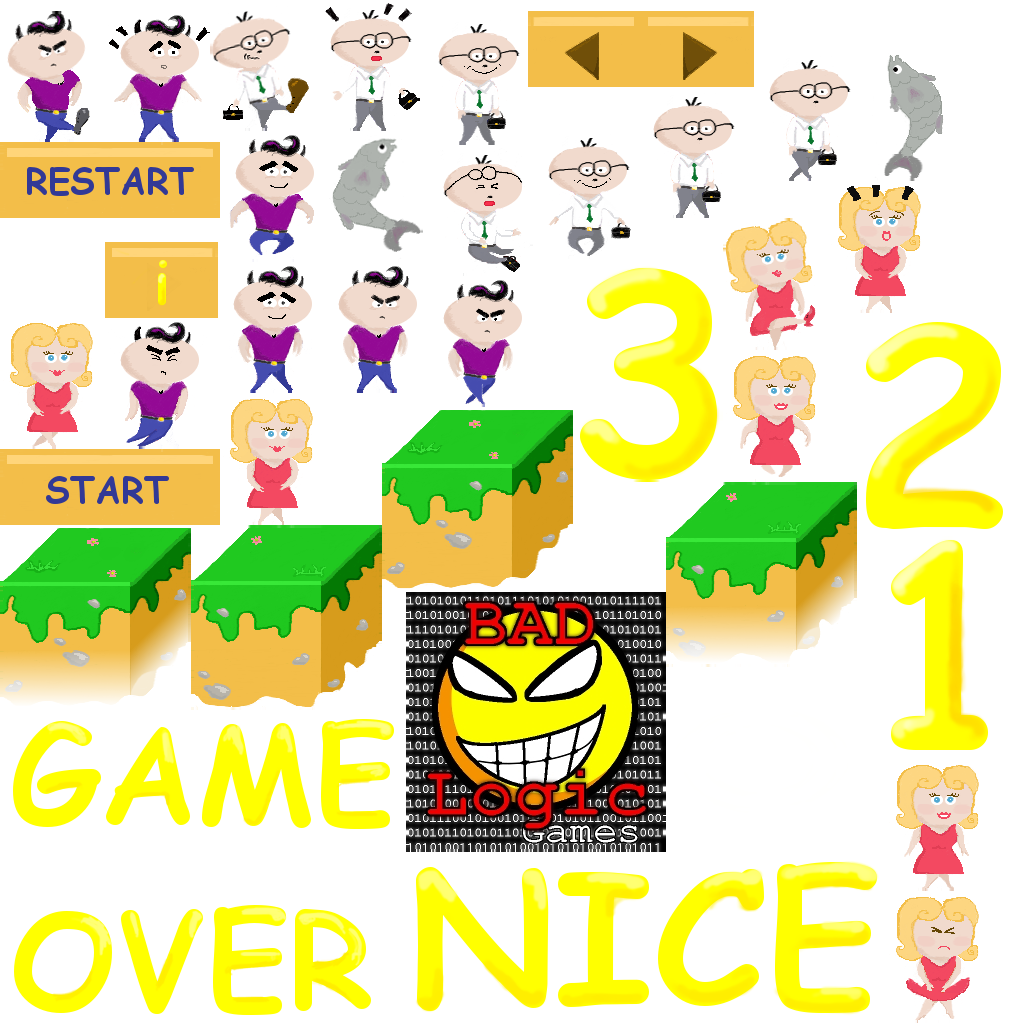
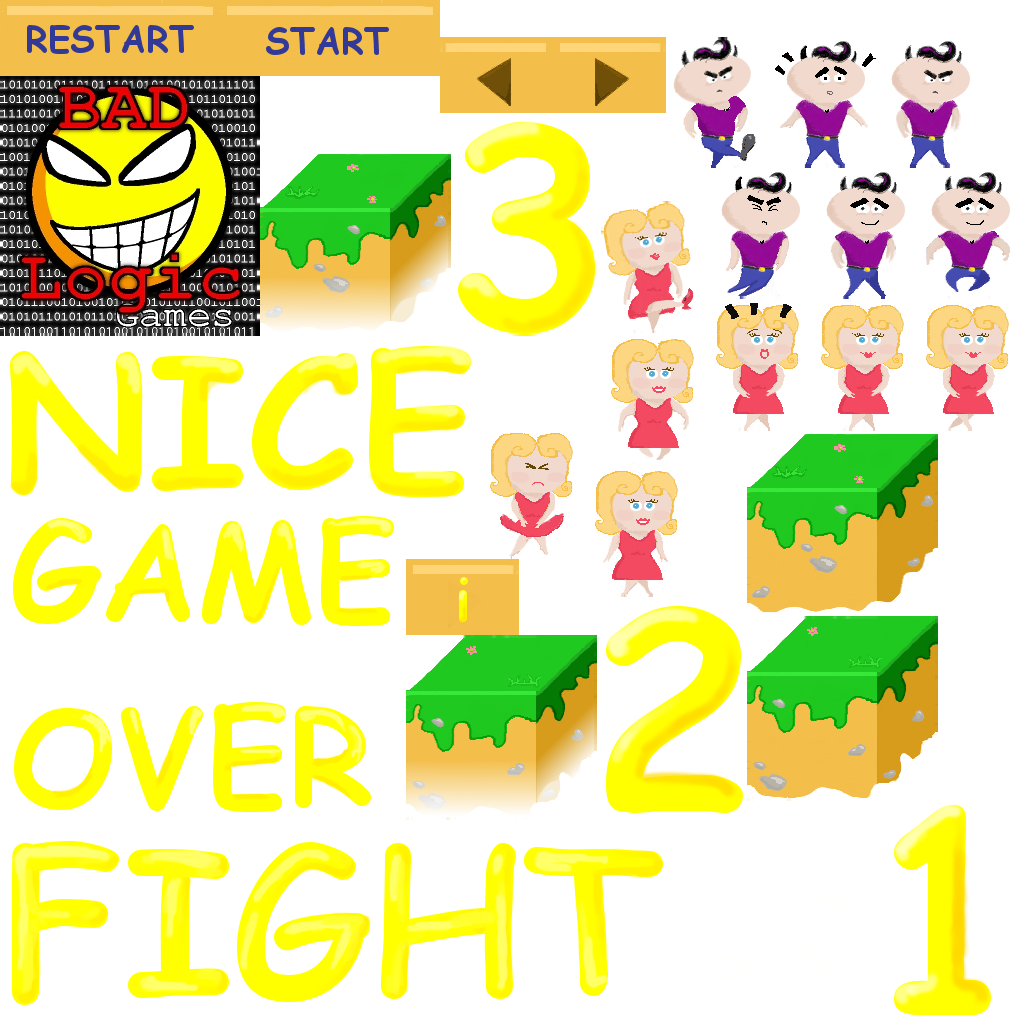
Pre-finished

diff --git a/core/src/com/mygdx/game/screen/GameScreen.java b/core/src/com/mygdx/game/screen/GameScreen.java
@@ -18,10 +18,7 @@ import com.mygdx.game.LDGame;
 import com.mygdx.game.controller.AIController;
 import com.mygdx.game.controller.InputController;
 import com.mygdx.game.controller.PlayerEventListener;
-import com.mygdx.game.data.AnimationCache;
-import com.mygdx.game.data.Configuration;
-import com.mygdx.game.data.ImageCache;
-import com.mygdx.game.data.SkinCache;
+import com.mygdx.game.data.*;
 import com.mygdx.game.model.Player;
 import com.mygdx.game.model.Terrain;
 
@@ -64,6 +61,7 @@ public class GameScreen extends BaseScreen implements PlayerEventListener {
                 ImageCache.getAtlas());
         ripples.setPosition(getWorldWidth() / 2f, getWorldHeight() / 2f);
 
+        counterImage = new Image();
         winImage = new Image();
         Image restartButton = new Image(ImageCache.getTexture("restart_button"));
         restartButton.addListener(new ClickListener(){
@@ -82,9 +80,9 @@ public class GameScreen extends BaseScreen implements PlayerEventListener {
         helpTable.setFillParent(true);
         helpTable.center();
         helpTable.top().left();
-        helpTable.add(helpLabel).pad(10);
+        helpTable.add(helpLabel).pad(10).left();
         helpTable.row();
-        helpTable.add(counterImage);
+        helpTable.add(counterImage).expandX().center().padTop(80);
 
         finalTable = new Table();
         finalTable.setFillParent(true);
@@ -117,6 +115,8 @@ public class GameScreen extends BaseScreen implements PlayerEventListener {
 
         generatePlayer(chosenPlayerType);
         generateBots(chosenPlayerType);
+
+        SoundCache.play("countdown");
     }
 
     @Override
@@ -129,14 +129,18 @@ public class GameScreen extends BaseScreen implements PlayerEventListener {
 
         if (delay <= DELAY_TIME) {
             delay += delta;
+            if (delay >= DELAY_TIME) {
+                MusicCache.play("soundtrack");
+            }
+
             int count = (int) (DELAY_TIME - delay);
             String name = "";
-            if (count <= 3 && count >= 0) {
-                name = String.format("count%d", count);
+            if (count <= 3 && count > 0) {
+                name = String.format("number%d", count);
             } else {
                 name = "fight";
             }
-            //counterImage.setDrawable(new TextureRegionDrawable(ImageCache.getTexture(name)));
+            counterImage.setDrawable(new TextureRegionDrawable(ImageCache.getTexture(name)));
         } else {
             if (counterImage != null) counterImage.remove();
             update(delta);
@@ -286,5 +290,11 @@ public class GameScreen extends BaseScreen implements PlayerEventListener {
             }
         }
         return closestPlayer;
+    }
+
+    @Override
+    public void dispose() {
+        MusicCache.dispose();
+        super.dispose();
     }
 }

diff --git a/core/src/com/mygdx/game/screen/ChooserScreen.java b/core/src/com/mygdx/game/screen/ChooserScreen.java
@@ -15,10 +15,7 @@ import com.badlogic.gdx.scenes.scene2d.ui.Table;
 import com.badlogic.gdx.scenes.scene2d.utils.ClickListener;
 import com.badlogic.gdx.scenes.scene2d.utils.TextureRegionDrawable;
 import com.mygdx.game.LDGame;
-import com.mygdx.game.data.AnimationCache;
-import com.mygdx.game.data.Configuration;
-import com.mygdx.game.data.ImageCache;
-import com.mygdx.game.data.SkinCache;
+import com.mygdx.game.data.*;
 import com.mygdx.game.model.Player;
 import com.mygdx.game.model.StateAnimation;
 import com.mygdx.game.ui.AnimatedImage;
@@ -120,6 +117,7 @@ public class ChooserScreen extends BaseScreen {
     }
 
     private void previousPlayer() {
+        SoundCache.play("click");
         chosenIndex -= 1;
         if (chosenIndex < 0) {
             chosenIndex = maxPlayers - 1;
@@ -128,6 +126,7 @@ public class ChooserScreen extends BaseScreen {
     }
 
     private void nextPlayer() {
+        SoundCache.play("click");
         chosenIndex += 1;
         if (chosenIndex >= maxPlayers) {
             chosenIndex = 0;

diff --git a/core/src/com/mygdx/game/model/Player.java b/core/src/com/mygdx/game/model/Player.java
@@ -11,6 +11,7 @@ import com.mygdx.game.controller.MovementController;
 import com.mygdx.game.controller.MovementListener;
 import com.mygdx.game.controller.PlayerEventListener;
 import com.mygdx.game.data.ImageCache;
+import com.mygdx.game.data.SoundCache;
 
 import java.util.Map;
 
@@ -208,8 +209,9 @@ public class Player extends Sprite implements MovementListener {
     @Override
     public void onKick() {
         if (!isActive) return;
-        if (state == FALL) return;
+        if (state == FALL || state == WIN) return;
 
+        SoundCache.play("whoosh");
         setState(KICK);
         if (playerEventListener != null) {
             playerEventListener.kick(this);
@@ -239,6 +241,7 @@ public class Player extends Sprite implements MovementListener {
 
     public void kicked(Vector2 kickDirection) {
         setState(KICKED);
+        SoundCache.play("punch");
         movementController.kicked();
         if (kickDirection.x == -1) {
             kickedDirection.x = -700;

diff --git a/core/src/com/mygdx/game/data/SoundCache.java b/core/src/com/mygdx/game/data/SoundCache.java
@@ -13,8 +13,8 @@ public class SoundCache {
      * TODO: put sounds here as constants with names of mp3 without extension
      */
 
-    private static final String SOUND_DIR = "sound/";
-    private static final String SOUND_EXT = ".mp3";
+    private static final String SOUND_DIR = "sfx/";
+    private static final String SOUND_EXT = ".wav";
 
     private static ObjectMap<String, Sound> sounds;
 
@@ -22,9 +22,10 @@ public class SoundCache {
         sounds = new ObjectMap<String, Sound>();
 
         String[] keys = {
-                /**
-                 * TODO: enumerate constants here for loading
-                 */
+                "click",
+                "countdown",
+                "punch",
+                "whoosh"
         };
         for (String key: keys) {
             Sound sound = Gdx.audio.newSound(Gdx.files.internal(SOUND_DIR + key + SOUND_EXT));

diff --git a/core/src/com/mygdx/game/LDGame.java b/core/src/com/mygdx/game/LDGame.java
@@ -1,6 +1,8 @@
 package com.mygdx.game;
 
-import com.badlogic.gdx.*;
+import com.badlogic.gdx.Game;
+import com.badlogic.gdx.Gdx;
+import com.badlogic.gdx.Screen;
 import com.mygdx.game.data.ImageCache;
 import com.mygdx.game.data.SkinCache;
 import com.mygdx.game.data.SoundCache;
@@ -36,7 +38,10 @@ public class LDGame extends Game {
 	public void setScreen(Screen screen) {
 		Screen old = getScreen();
 		super.setScreen(screen);
-		if (old != null) old.dispose();
+		if (old != null) {
+			old.dispose();
+			SoundCache.play("click");
+		}
 	}
 
 	public void setGameScreen(int chosenPlayerType) {

diff --git a/core/src/com/mygdx/game/data/MusicCache.java b/core/src/com/mygdx/game/data/MusicCache.java
@@ -12,8 +12,8 @@ public class MusicCache {
      * TODO: put melodies here as constants with names of the mp3 without extension
      */
 
-    private static final String MUSIC_DIR = "music/";
-    private static final String MUSIC_EXT = ".mp3";
+    private static final String MUSIC_DIR = "sfx/";
+    private static final String MUSIC_EXT = ".wav";
     private static final float VOLUME = 1f;
 
     private static String key;
